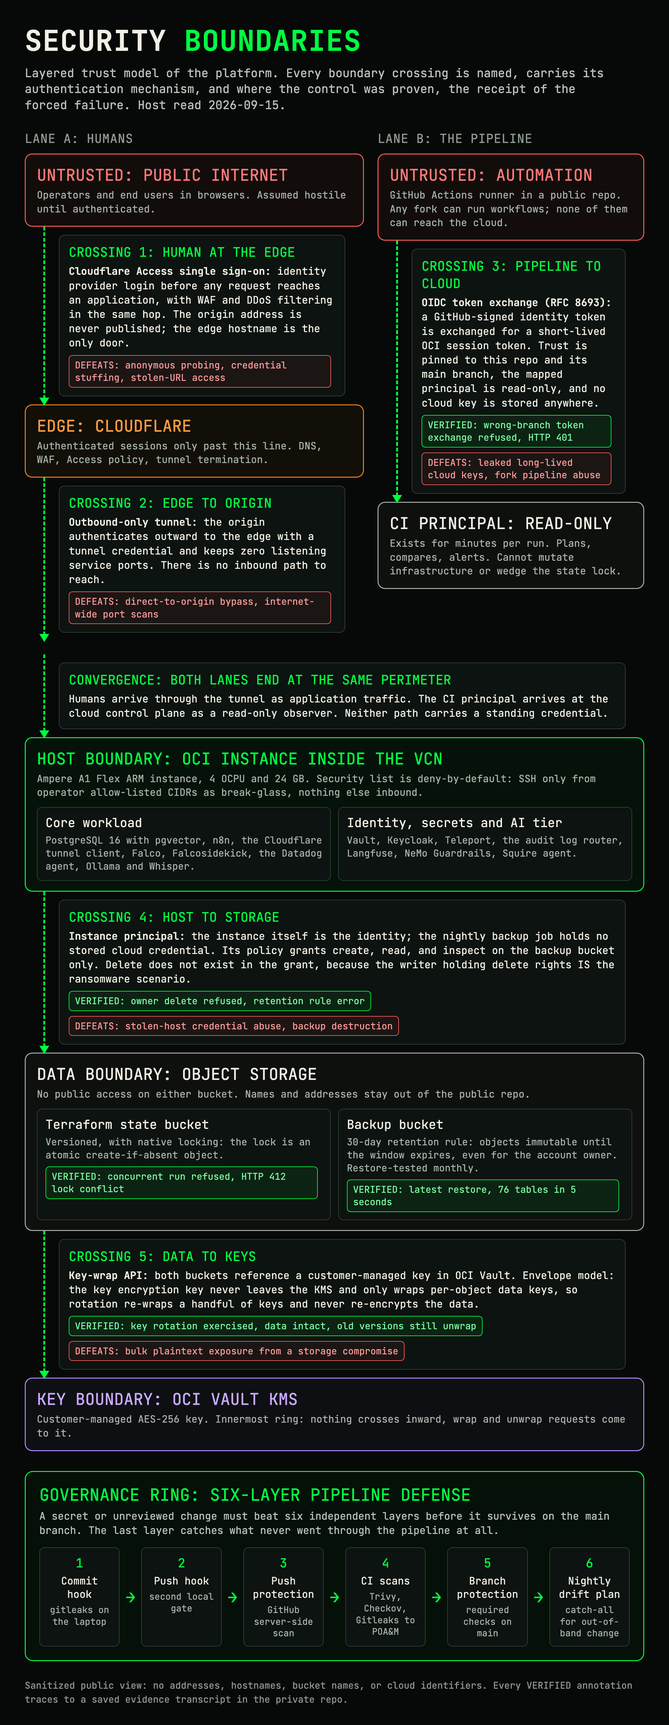
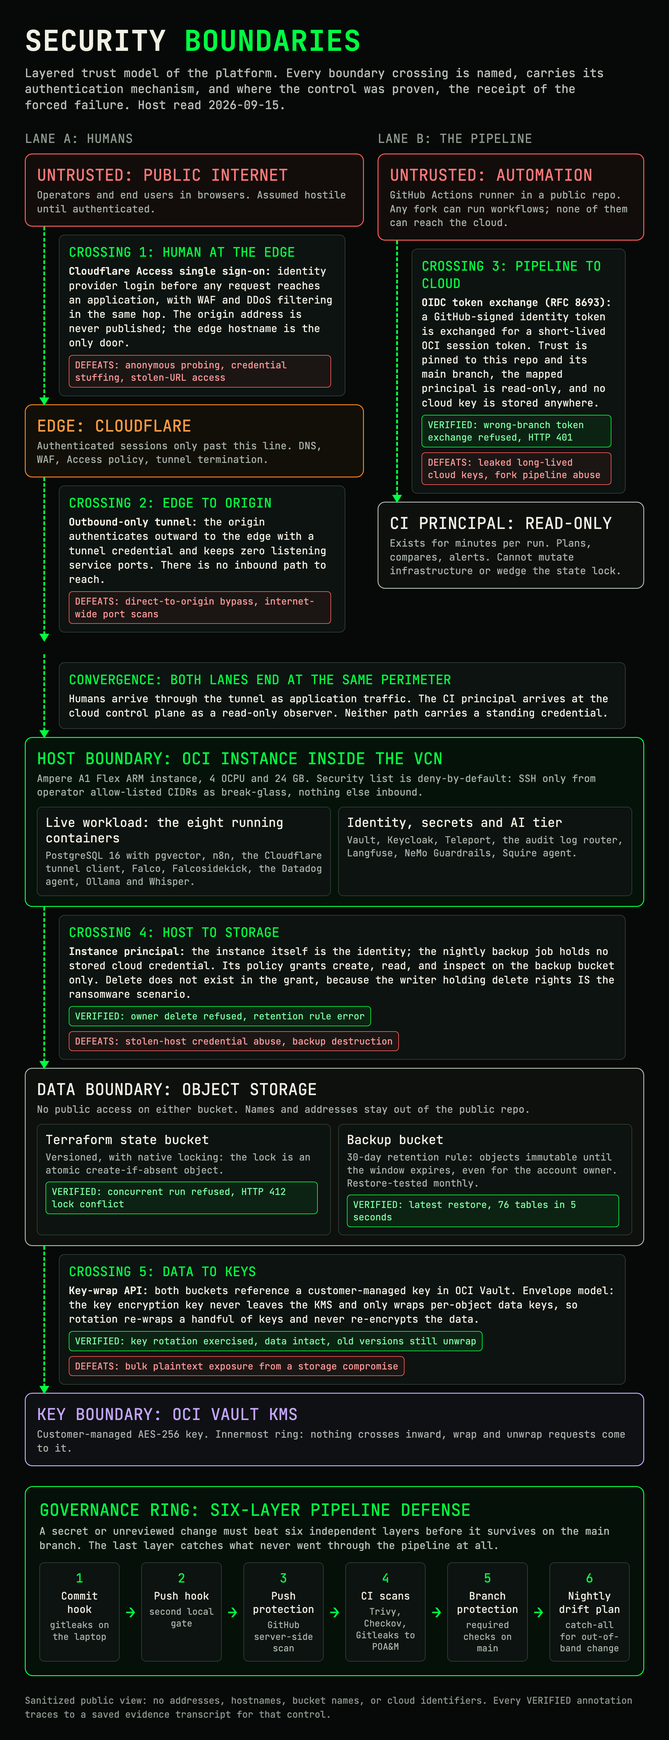
fix(24-01): allowlist rows fixed at the line, the nine residue keys, two anchors and the diagram boxes

diff --git a/docs/grc/diagrams/network_topology.html b/docs/grc/diagrams/network_topology.html
@@ -65,13 +65,13 @@
 
   .livebox { border:3px solid #00FF41; background:rgba(0,255,65,.06); border-radius:16px; padding:24px 28px; margin-top:24px; }
   .liveh { font-family:'JetBrains Mono','SF Mono',Menlo,monospace; font-size:36px; color:#00FF41; margin-bottom:16px; }
-  .pendbox { border:3px dashed #FFB020; background:rgba(255,176,32,.05); border-radius:16px; padding:24px 28px; margin-top:24px; }
+  .tierbox { border:3px solid #FFB020; background:rgba(255,176,32,.05); border-radius:16px; padding:24px 28px; margin-top:24px; }
   .pendh { font-family:'JetBrains Mono','SF Mono',Menlo,monospace; font-size:36px; color:#FFB020; margin-bottom:16px; }
   .ctrs { display:flex; flex-wrap:wrap; gap:14px; }
   .ctr { font-family:'JetBrains Mono','SF Mono',Menlo,monospace; font-size:33px; background:#0d1310;
          border:2px solid #33413a; border-radius:12px; padding:12px 20px; color:#f2efe4; }
-  .pendbox .ctr { border-color:#5a4b26; color:#e8cf9a; }
-  .pendnote { font-size:30px; color:#c9a45c; margin-top:18px; line-height:1.4; }
+  .tierbox .ctr { border-color:#5a4b26; color:#e8cf9a; }
+  .tiernote { font-size:30px; color:#c9a45c; margin-top:18px; line-height:1.4; }
 
   .footer { margin-top:54px; font-family:'JetBrains Mono','SF Mono',Menlo,monospace; font-size:30px; color:#8f9a91; line-height:1.5; }
 </style>
@@ -191,14 +191,14 @@
           </div>
         </div>
 
-        <div class="pendbox">
+        <div class="tierbox">
           <div class="pendh">IDENTITY, SECRETS AND AI TIER</div>
           <div class="ctrs">
             <span class="ctr">Vault</span><span class="ctr">Keycloak</span><span class="ctr">Teleport</span>
             <span class="ctr">Audit log router</span><span class="ctr">Langfuse</span>
             <span class="ctr">NeMo Guardrails</span><span class="ctr">Squire agent</span>
           </div>
-          <div class="pendnote">Defined in Docker Compose. Registry images pinned to their arm64 index digests; three are built from this repository.</div>
+          <div class="tiernote">Defined in Docker Compose. Registry images pinned to their arm64 index digests; three are built from this repository.</div>
         </div>
       </div>
     </div>
@@ -229,4 +229,4 @@
   </div>
 </div>
 
-<div class="footer">Sanitized public view: no addresses, hostnames, bucket names, or cloud identifiers. Every VERIFIED annotation traces to a saved evidence transcript in the private repo.</div>
+<div class="footer">Sanitized public view: no addresses, hostnames, bucket names, or cloud identifiers. Every VERIFIED annotation traces to a saved evidence transcript for that control.</div>

diff --git a/docs/grc/diagrams/stack_overview_hero.html b/docs/grc/diagrams/stack_overview_hero.html
@@ -25,16 +25,16 @@
   .c-edge  { border-color:#F6821F; } .c-edge .ctitle { color:#FF9C42; }
   .c-comp  { border-color:#00FF41; } .c-comp .ctitle { color:#00FF41; }
   .c-data  { border-color:#a8b3aa; } .c-data .ctitle { color:#f2efe4; }
-  .c-ci    { border-color:#B48CFF; } .c-ci .ctitle { color:#C9ABFF; }
+  .c-ci    { border-color:#c4a6ff; } .c-ci .ctitle { color:#c4a6ff; }
 
   .item { font-size:36px; color:#f2efe4; line-height:1.4; padding:12px 0 12px 40px; position:relative; }
   .item::before { content:""; position:absolute; left:0; top:30px; width:16px; height:16px; border-radius:4px; background:#00FF41; }
   .c-edge .item::before { background:#F6821F; }
   .c-data .item::before { background:#a8b3aa; }
-  .c-ci   .item::before { background:#B48CFF; }
+  .c-ci   .item::before { background:#c4a6ff; }
   .item b { color:#f2efe4; font-weight:600; }
 
-  .tierbox { margin-top:40px; border:3px dashed #FFB020; border-radius:26px; padding:38px 42px; background:rgba(255,176,32,.04); }
+  .tierbox { margin-top:40px; border:3px solid #FFB020; border-radius:26px; padding:38px 42px; background:rgba(255,176,32,.04); }
   .ptitle { font-family:'JetBrains Mono','SF Mono',Menlo,monospace; font-size:56px; color:#FFB020; }
   .psub { font-size:36px; color:#c9a45c; margin-top:12px; line-height:1.4; }
   .ptags { display:flex; flex-wrap:wrap; gap:16px; margin-top:26px; }
@@ -73,7 +73,7 @@
   <div class="card c-comp">
     <div class="chead"><div class="ctitle">COMPUTE</div></div>
     <div class="item"><b>Ampere A1 ARM instance</b> in a deny-by-default VCN, fully Terraform-managed</div>
-    <div class="item"><b>Live containers:</b> PostgreSQL 16 + pgvector, n8n, tunnel client, Falco, Falcosidekick, Datadog agent, Ollama, Whisper</div>
+    <div class="item"><b>Live, the eight running containers:</b> PostgreSQL 16 + pgvector, n8n, tunnel client, Falco, Falcosidekick, Datadog agent, Ollama, Whisper</div>
     <div class="item"><b>SSH:</b> break-glass only, from allow-listed operator CIDRs</div>
   </div>
 

diff --git a/docs/grc/diagrams/security_boundaries.html b/docs/grc/diagrams/security_boundaries.html
@@ -27,8 +27,8 @@
   .b-blue  .blabel { color:#f2efe4; }
   .b-green { border:3px solid #00FF41; background:rgba(0,255,65,.04); }
   .b-green .blabel { color:#00FF41; }
-  .b-purple{ border:3px solid #B48CFF; background:rgba(180,140,255,.05); }
-  .b-purple .blabel { color:#C9ABFF; }
+  .b-purple{ border:3px solid #c4a6ff; background:rgba(196,166,255,.05); }
+  .b-purple .blabel { color:#c4a6ff; }
 
   .cross { margin:0 60px; border-left:6px dashed #00FF41; padding:26px 0 26px 44px; position:relative; }
   .cross::after { content:""; position:absolute; left:-19px; bottom:-4px;
@@ -129,7 +129,7 @@
   <div class="bsub">Ampere A1 Flex ARM instance, 4 OCPU and 24 GB. Security list is deny-by-default: SSH only from operator allow-listed CIDRs as break-glass, nothing else inbound.</div>
   <div class="inner">
     <div class="icard">
-      <div class="ilabel">Core workload</div>
+      <div class="ilabel">Live workload: the eight running containers</div>
       <div class="isub">PostgreSQL 16 with pgvector, n8n, the Cloudflare tunnel client, Falco, Falcosidekick, the Datadog agent, Ollama and Whisper.</div>
     </div>
     <div class="icard">
@@ -198,4 +198,4 @@
   </div>
 </div>
 
-<div class="footer">Sanitized public view: no addresses, hostnames, bucket names, or cloud identifiers. Every VERIFIED annotation traces to a saved evidence transcript in the private repo.</div>
+<div class="footer">Sanitized public view: no addresses, hostnames, bucket names, or cloud identifiers. Every VERIFIED annotation traces to a saved evidence transcript for that control.</div>

diff --git a/docs/grc/SQUIRE_THREAT_MODEL.md b/docs/grc/SQUIRE_THREAT_MODEL.md
@@ -178,7 +178,7 @@ ATLAS ID references per the AML.T code set as of 2026-04. Each tactic below has 
 
 | Tactic ID | Name | Primary control | Supporting control | Residual |
 |-----------|------|-----------------|-------------------|----------|
-| AML.T0051 | Prompt Injection | NeMo input rail (presidio + planned PolicyAI) | Pre-graph scanner + critique-loop consistency + actions.yml rewrite | MEDIUM |
+| AML.T0051 | Prompt Injection | NeMo input rail (presidio, with PolicyAI in the rail design) | Pre-graph scanner + critique-loop consistency + actions.yml rewrite | MEDIUM |
 <!-- TODO(et): AML.T0041 is not a current MITRE ATLAS technique ID under that label. T0024 (Exfiltration via ML Inference API) likely covers the row below. Consolidate or remap to a real ATLAS technique. -->
 | AML.T0024 | Exfiltration via ML Inference API | Per-call cost ceiling $0.75, daily ceiling $10 | Token auth + 60-day rotation | LOW |
 | AML.T0029 | Denial of ML Service | Cost ceiling + iteration cap (3) + invocation timeout (30s) | Cloudflare rate limit + Redis dedup | LOW |
@@ -193,10 +193,10 @@ ATLAS ID references per the AML.T code set as of 2026-04. Each tactic below has 
 
 **Mitigating controls:**
 
-- NeMo input rail with presidio + planned PolicyAI layer. Config: `svc-nemo-config/config.yml`. Plan reference: phase 17 plan 17-10, the NeMo sidecar, which lives in the private planning tree and is not published with this repository. See [GUARDRAILS_CONFIGURATION.md](GUARDRAILS_CONFIGURATION.md) for rail topology.
+- NeMo input rail with presidio, and a PolicyAI layer beside it in the rail design. Config: `svc-nemo-config/config.yml`. See [GUARDRAILS_CONFIGURATION.md](GUARDRAILS_CONFIGURATION.md) for rail topology.
 - Pre-graph PII scanner (`builds/squire/src/squire/pre_graph_pii.py`) runs before any LLM call. Does not address non-PII injection, but narrows the exposure surface for exfil variants.
 - Critique-loop consistency override: the critique node re-evaluates severity and containment recommendation against the classifier output; a severity flip from `CRITICAL` on raw alert to `LOW` in draft triggers an override back to classifier severity ([REDTEAM_RESULTS.md](REDTEAM_RESULTS.md) case R-03).
-- actions.yml allow-list: draft-node output passes through a filter that rewrites destructive verbs ("stop", "rm", "delete", "shutdown") to `recommend:` phrasing. Plan reference: phase 17 plan 17-09, the allow-list, which lives in the private planning tree and is not published with this repository.
+- actions.yml allow-list: draft-node output passes through a filter that rewrites destructive verbs ("stop", "rm", "delete", "shutdown") to `recommend:` phrasing.
 
 **Residual risk: MEDIUM.** Novel injection patterns can bypass presidio-based rails, which are PII-detector-centric and not behavioral. The critique consistency check and the actions.yml rewrite are the defense-in-depth against bypass. Red-team cycle 2 (plan 17-11) will exercise attack tree leaf A.2 (poisoned ir_chunk) and A.3 (Tavily directive injection) to quantify this residual further.
 
@@ -213,7 +213,7 @@ ATLAS ID references per the AML.T code set as of 2026-04. Each tactic below has 
 **Mitigating controls:**
 
 - Per-call cost ceiling of $0.75 at the graph runner. Exceeds the average real-alert invocation cost (typically $0.12 to $0.38 per case) by a safety margin while still capping a runaway extraction loop at a single call.
-- Daily cost ceiling of $10 enforced by Redis counter keyed on UTC day; requests past the ceiling are rejected with `429 COST_CEILING_HIT` before any LLM call. Plan reference: phase 17 plan 17-08b, the cost caps, which lives in the private planning tree and is not published with this repository.
+- Daily cost ceiling of $10 enforced by Redis counter keyed on UTC day; requests past the ceiling are rejected with `429 COST_CEILING_HIT` before any LLM call.
 - Token auth on `/alert` with `x-squire-token` rotated every 60 days. Token stored in Doppler only.
 - Cloudflare edge rate limit of 100 req/min per IP on squire.example-ops.com.
 - Langfuse volumetrics dashboard alerts when `invocations_per_hour > 30` (typical operational baseline is <5).

diff --git a/docs/grc/HIPAA_EPHI_HANDLING.md b/docs/grc/HIPAA_EPHI_HANDLING.md
@@ -267,7 +267,7 @@ This is a known gap. The current compensating controls are:
 - Runtime detection via Falco watching for process injection and unexpected memory reads
 - Minimal data residency in memory; records are decrypted at the moment of use and dereferenced immediately
 
-Future enhancement: evaluate hardware enclave deployment (Intel TDX, AMD SEV-SNP) on a successor host class. This is tracked in the platform roadmap as a Phase 20+ item, not immediate.
+Hardware enclave deployment (Intel TDX, AMD SEV-SNP) needs a successor host class, so the control is held and no part of the ingest path depends on it.
 
 ---
 
@@ -277,7 +277,7 @@ Future enhancement: evaluate hardware enclave deployment (Intel TDX, AMD SEV-SNP
 
 ePHI access is gated by a single role: ephi-operator. This role is distinct from the existing admin, operator, and auditor roles. The separation is deliberate: an admin can change platform configuration but cannot read ePHI without explicitly assuming the ephi-operator role through a JIT request. An auditor can review audit records about ePHI access but cannot read ePHI itself.
 
-**Provisioning status:** Role design is defined. The role is not yet provisioned in the Keycloak realm import file. Provisioning is gated by the BAA signing event per Section 4.1 item 7.
+**Provisioning status:** The role design is held and the Keycloak realm import file carries no row for it. Provisioning is gated by the BAA signing event per Section 4.1 item 7.
 
 ### 8.2 Just-In-Time Access
 
@@ -535,8 +535,8 @@ Each BAA includes a clause requiring the subprocessor to notify the Organization
 | Encryption at rest (application field) | Not implemented | Vault Transit with per-tenant key | Requires schema change; tracked in gap section |
 | Encryption in transit (TLS 1.3 external) | Implemented (Cloudflare edge enforces) | No change | Verified via SSL Labs scan |
 | Encryption in transit (mTLS internal) | Partial (some hops mTLS, some plaintext on bridge network) | Full mTLS on all ePHI-carrying hops | Service-mesh proposal under review |
-| Confidential computing (in use) | Not implemented | Not required for initial ingest; future enhancement | Hardware enclave evaluation deferred to Phase 20+ |
-| RBAC (admin/operator/auditor) | Implemented | ephi-operator role added | Role design defined; not yet provisioned in Keycloak realm import |
+| Confidential computing (in use) | Not implemented | Not required for initial ingest | Hardware enclave evaluation needs a successor host class |
+| RBAC (admin/operator/auditor) | Implemented | ephi-operator role added | Role design held; the Keycloak realm import carries no row for it |
 | JIT access via Teleport | Implemented | ephi-operator integrated | JIT template needs the minimum-necessary justification field |
 | Session recording | Implemented | No change | Already mandatory for elevated sessions |
 | Audit logging (Squire AI events) | Implemented per AI_AUDIT_TRAIL_SPEC.md | Extended to ephi_audit table | Requires schema migration and ingest hook |

diff --git a/docs/grc/POLICY_DISASTER_RECOVERY.md b/docs/grc/POLICY_DISASTER_RECOVERY.md
@@ -24,7 +24,7 @@ This plan is a companion to GRC-BCP-001 (Business Continuity Plan) and focuses s
 
 This plan covers the recovery of:
 
-- The production VPS (`alpha-node`) and all 20 services (19 Compose-managed containers plus 1 standalone service)
+- The production VPS (`alpha-node`), all 19 Compose-managed service containers, and the standalone service beside them
 - PostgreSQL databases and persistent data volumes
 - Infrastructure-as-code state and definitions
 - CI/CD pipeline configurations
@@ -78,7 +78,7 @@ This plan covers the recovery of:
 
 **Description:** DigitalOcean's hosting region becomes unavailable due to infrastructure failure, network partition, or provider-side incident.
 
-**Impact:** All 20 services offline (19 Compose-managed + 1 standalone). No remote access via tunnel or direct SSH. Datadog may still have historical data.
+**Impact:** All 19 Compose-managed services offline. No remote access via tunnel or direct SSH. Datadog may still have historical data.
 
 **Detection:** Datadog alerts on host unreachable; Cloudflare health checks fail; manual verification via provider status page.
 
@@ -102,7 +102,7 @@ This plan covers the recovery of:
 
 **Description:** The VPS operating system becomes unbootable, the disk is corrupted, or a kernel panic renders the host non-functional. DigitalOcean infrastructure is operational but the specific instance is damaged.
 
-**Impact:** All 20 services offline (19 Compose-managed + 1 standalone). Data on local volumes may be lost or inaccessible.
+**Impact:** All 19 Compose-managed services offline. Data on local volumes may be lost or inaccessible.
 
 **Detection:** SSH connection refused or timeout; Datadog reports host down; DigitalOcean console shows instance in error state.
 
@@ -409,7 +409,7 @@ Step 10: Document rotation in change log
 | PostgreSQL backup restore | Monthly | Restore latest dump to temporary container | Data integrity verified; row counts match |
 | IaC plan validation | Monthly | IaC plan against production state | Zero unexpected changes |
 | Single container recovery | Quarterly | Destroy and recreate one Tier 2 service | Service operational within RTO |
-| Full stack rebuild (test instance) | Annually | Complete Playbook 6.1 on separate VPS | All 20 services pass validation checklist within 4 hours |
+| Full stack rebuild (test instance) | Annually | Complete Playbook 6.1 on separate VPS | All 19 services pass validation checklist within 4 hours |
 | Ransomware scenario tabletop | Annually | Walk through Scenario D with all roles | All steps executable; no missing procedures |
 | Backup integrity audit | Quarterly | Verify all backup items exist and are current | All items in Section 5.1 present and within retention window |
 

diff --git a/docs/grc/AI_RED_TEAM_PLAN.md b/docs/grc/AI_RED_TEAM_PLAN.md
@@ -965,7 +965,7 @@ Testing SHALL be immediately suspended if any of the following occur:
 |---------|-------------|-----------------|-------------------------|------------------|
 | Q1 2026 | 2026-03-12 (initial planned) | All 6 categories, full baseline | N/A (first assessment) | NOT EXECUTED on 2026-03-12. Actual first execution was 2026-04-23 (cycle 1) and 2026-04-24 (cycle 2) against svc-squire (AI-004). See `REDTEAM_RESULTS.md`. |
 | Q2 2026 | 2026-06-02 to 2026-06-06 (planned) | Categories 1, 2, 4 (highest risk) | Full re-test of Q1 failures | Window passed. Cycle 2 (2026-04-24) substitutes in part; a dedicated Q2 window run is not documented. <!-- TODO(et): confirm whether the planned Q2 2026 window executed; if cycle 2 stands in for Q2, state that explicitly here. --> |
-| Q3 2026 | 2026-09-01 to 2026-09-05 | Categories 3, 5, 6 plus regression | Re-test Q2 failures plus new controls | Pending. |
+| Q3 2026 | 2026-09-01 to 2026-09-05 | Categories 3, 5, 6 plus regression | Re-test Q2 failures plus new controls | Not run in the Q3 window. |
 | Q4 2026 | 2026-12-01 to 2026-12-05 | All 6 categories, annual comprehensive | Full regression suite | Pending. |
 
 ### 5.2 Test Rotation Matrix
@@ -1155,7 +1155,7 @@ Each quarterly testing cycle produces a summary report containing:
 | ART-EA-002 | ATC-07 | E-02 | 1.1.3 | LLM08 | - | Planned (no evidence) <!-- TODO(et): verify execution status --> |
 | ART-EA-003 | ATC-06, ATC-07 | E-04 | 4.x | LLM08 | AML.T0040 | Adjacent execution via AI-004 cycle 2 case 18 (action-verb smuggling, INFRA_ERROR). <!-- TODO(et): re-fire to convert INFRA_ERROR to a real result. --> |
 | ART-EA-004 | ATC-07 | E-02 | 1.1.3 | LLM08 | - | Planned (no evidence) <!-- TODO(et): verify execution status --> |
-| ART-SC-001 | ATC-04 | T-02 | 2.1.x | LLM03 | AML.T0018 | Planned (no evidence). Supply Chain family is currently unaudited. <!-- TODO(et): verify execution status --> |
+| ART-SC-001 | ATC-04 | T-02 | 2.1.x | LLM03 | AML.T0018 | Planned (no evidence). Supply Chain family is currently unaudited. |
 | ART-SC-002 | ATC-04 | T-02 | 2.1.x | LLM03 | AML.T0018 | Out of scope today: model update test assumes svc-llm/Ollama, but the Squire fallback cannot reach svc-ollama because of net-ai isolation. <!-- TODO(et): retain or rewrite for net-core path. --> |
 | ART-SC-003 | ATC-04 | T-05 | 2.3.1 | LLM03 | AML.T0018 | Planned (no evidence) <!-- TODO(et): verify execution status --> |
 | ART-SC-004 | ATC-04 | T-02 | 2.2.1 | LLM03 | AML.T0018 | Planned (no evidence) <!-- TODO(et): verify execution status --> |

diff --git a/docs/runbook/image-rollback.md b/docs/runbook/image-rollback.md
@@ -184,7 +184,7 @@ ssh cd-oci 'sudo apt-get remove -y docker-buildx'
 
 Removing the package removes the subcommand, and `docker build` returns to the legacy builder, which still works in Docker 29.1.3. buildx is a client plugin, so neither installing nor removing it changes anything about the running stack. This was checked before it was written down: `apt-get -s remove docker-buildx` reports one package removed and nothing else touched.
 
-**The alternative, and why it waits.** Publishing these images to the GitHub Container Registry with `docker/build-push-action` on the arm64 hosted runners is the better long run answer, and the ground is already prepared: the repository is public, the workflows SHA pin their actions, and `security.yml` already installs Cosign. It waits for Phase 24 because `scripts/verify_image_signatures.py` fails closed on any `image:` reference that has no entry in `.github/image-signers.json`. The moment a compose line points at a registry, that gate breaks the pull request until the images are keyless signed, which is requirement RB-04. Reversal for that path, if it is taken anyway: revert the workflow, revert the `image:` lines back to local tags, revert the signers entry, and delete the package from the GitHub packages interface.
+**The registry path, and why the build is local.** Publishing these images to the GitHub Container Registry with `docker/build-push-action` on the arm64 hosted runners is the better long run answer, and the ground is prepared: the repository is public, the workflows SHA pin their actions, and `security.yml` already installs Cosign. The build stays local because `scripts/verify_image_signatures.py` fails closed on any `image:` reference that has no entry in `.github/image-signers.json`: the moment a compose line points at a registry, that gate holds the pull request open unless the images carry a keyless signature, which is requirement RB-04. Reversal for the registry path: revert the workflow, revert the `image:` lines back to local tags, revert the signers entry, and delete the package from the GitHub packages interface.
 
 **Two Arm pins had to move before any of this could build.** Both were measured on the host on 2026-09-09.
 

diff --git a/docs/grc/SQUIRE_SSP.md b/docs/grc/SQUIRE_SSP.md
@@ -300,7 +300,7 @@ This section covers only controls that are Squire-specific. Inherited controls (
 |---------|--------|----------------|----------|
 | AU-2 | Implemented | Audit events: (1) every `/alert` call emits a Langfuse trace with cost, latency, and rail outcomes; (2) every completed investigation, its evidence, and its citations are rows in `ir_investigations`, `ir_evidence`, and `ir_citations`, and a replay is a new investigation row with source `replay`; (3) a pre-graph block returns a structured refusal with a reason code and is traced, not stored in a dedicated table. | `builds/squire/src/squire/persist.py`; `builds/squire/src/squire/telemetry.py` |
 | AU-3 | Implemented | Audit records include: timestamp, trace_id, node_name, model_id, input_hash, output_hash, rail_name, reason_code, cost_usd, latency_ms. | Langfuse schema + `ir_*` DDL in migrations/002 |
-| AU-6 | Implemented | Daily automated review: a cron job queries Langfuse for traces with `rail_triggered=true` and posts a summary to the operations Telegram bot. Weekly human review of red-team regression runs. | No script by that name exists in the repository as of 2026-09-06; the rail-trigger review is a manual Langfuse query until the daily job is written |
+| AU-6 | Implemented | Daily automated review: a cron job queries Langfuse for traces with `rail_triggered=true` and posts a summary to the operations Telegram bot. Weekly human review of red-team regression runs. | No script by that name exists in the repository as of 2026-09-06; the rail-trigger review is a manual query of the trace store |
 | AU-9 | Implemented | Langfuse writes are append-only from the worker's perspective. The Postgres table holding traces has REVOKE UPDATE, DELETE on the service role. Offsite backup via nightly `pg_dump` to DO Spaces (14-day retention). | `svc-db` role `langfuse_rw` grants INSERT, SELECT only |
 | AU-12 | Partially Implemented | Every graph node is instrumented with `@observe()` from `langfuse.decorators`. No test enumerates the nodes to enforce the decorator yet; a trace-coverage test is an open item. | `builds/squire/src/squire/nodes/draft.py` and `critique.py` carry the observe decorators |
 

diff --git a/terraform/cd-oci-infrastructure/README.md b/terraform/cd-oci-infrastructure/README.md
@@ -94,19 +94,19 @@ user in a read-only group. The workflow file documents the two non-obvious
 parts (Oracle's `urn:oci:token-type:oci-upst` token type and the SDK's
 fingerprint requirement for session auth).
 
-## Remaining work (post-migration, in priority order)
+## What sits outside this module
 
-1. **Terraform state -> Cloudflare R2**: state is already remote (versioned OCI
-   bucket with locking); moving it off the compute vendor waits on a one-time
-   R2 enable in the CF dashboard, then `terraform init -migrate-state`.
-2. **Re-import n8n workflows**: 14 JSON files in `COREDIRECTIVE_ENGINE/`; the
-   DB is fresh (old data died with the droplet). Credentials need reconnecting.
-3. **Full stack parity**: bring up the remaining services on ARM: strip/re-pin
-   digests for arm64, rebuild local images (nemo/squire/fluentd), regenerate
-   Teleport certs + Keycloak realm + Vault data (lost with the droplet), wire
-   falcosidekick -> Splunk.
-4. **Adopt the Cloudflare layer into Terraform**: `import`, not apply, then
-   parameterize and publish the module.
+1. **Terraform state**: state is already remote, in a versioned OCI bucket with
+   native locking. Moving it to Cloudflare R2 is a bucket create plus
+   `terraform init -migrate-state`; the reasoning sits in `terraform.tf`.
+2. **n8n workflows**: the 14 JSON exports in `COREDIRECTIVE_ENGINE/` are the
+   source of truth, and the instance carries all 14 with credentials bound by name.
+3. **Stack parity on Arm**: the compose design carries 19 services and the host
+   runs 8 of them on arm64 digests. The rest carry amd64 digests or local
+   images, so each one is built and re-pinned for aarch64, with Teleport certs,
+   the Keycloak realm and Vault data generated on first bring-up.
+4. **The Cloudflare layer in Terraform**: the edge is adopted with `import`, so
+   no apply creates it; it is then parameterized and published as a module.
 
-Full point-in-time record: `.private/INFRA_SNAPSHOT_2026-08-19.md` (gitignored)
-and the mirrored Google Drive doc.
+Account-specific values this module reads (bucket name, namespace, region) live
+in `backend.hcl`, which git never tracks.

diff --git a/docs/grc/OWASP_MCP_TOP10_AUDIT.md b/docs/grc/OWASP_MCP_TOP10_AUDIT.md
@@ -155,9 +155,9 @@ The 5 FastMCP tools in scope are `list_docs`, `read_doc`, `search_corpus`, `get_
 
 **Evidence**: `scripts/grc/grc_mcp_server.py:151` defines `MAX_RESPONSE_BYTES = 100 * 1024` (100KB hard cap). The cap is enforced on every tool return: `list_docs` truncates the payload (lines 233 to 238), `read_doc` truncates via `_truncate_bytes()` (line 274), `search_corpus` accounts snippet bytes against `snippet_budget = MAX_RESPONSE_BYTES // 2` (line 292), `get_poam` truncates the raw row (line 359), `get_threat_model_entry` truncates the extracted section (line 402). Input arguments are validated by FastMCP type-hint enforcement plus the explicit regex guards `_POAM_ID_RE` and `_THREAT_ID_RE`. Every return goes through `sanitize()` to strip cross-context secret leaks.
 
-**Residual Risk**: Low. A single response under the byte cap could still over-share adjacent rows from the same markdown file (asking for one POAM ID returns the surrounding rows). Phase 21 will add query-intent scoping; until then, the 100KB cap plus per-field sanitize limits over-share blast radius.
+**Residual Risk**: Low. A single response under the byte cap could still over-share adjacent rows from the same markdown file (asking for one POAM ID returns the surrounding rows). The server applies no query-intent scoping, so the 100KB cap plus per-field sanitize is what limits the over-share blast radius.
 
-**Compensating Controls**: Not required (status is Mitigated). Phase 21 backlog item for query-intent scoping.
+**Compensating Controls**: Not required (status is Mitigated). Query-intent scoping sits on this audit's own backlog.
 
 ---
 

diff --git a/docs/architecture/STACK_OVERVIEW.md b/docs/architecture/STACK_OVERVIEW.md
@@ -6,7 +6,7 @@ Acronyms, once: OIDC (OpenID Connect), JWT (JSON Web Token), UPST (user principa
 
 The reasoning behind each control (options weighed, blast radius, verification method) lives in the [decision records](decisions/README.md).
 
-**Multi-cloud posture.** The running platform deliberately splits trust across vendors: OCI holds compute, storage, and keys; Cloudflare holds the edge (Access, WAF, DNS, tunnel); GitHub issues the pipeline's identity. This is the third cloud generation of the same design: generation one ran on AWS (its IaC is archived in `terraform/cd-aws-automation/` and `terraform/simple-ec2/`), generation two on DigitalOcean (`terraform/cd-do-infrastructure/`, archived), and each migration was survivable because the entire system is code. Terraform state sits in versioned, locked object storage under a customer-managed key, so the record of the infrastructure outlives the host it describes.
+**Multi-cloud posture.** The running platform deliberately splits trust across vendors: OCI holds compute, storage, and keys; Cloudflare holds the edge (Access, WAF, DNS, tunnel); GitHub issues the pipeline's identity. This is the third cloud generation of the same design: generation one ran on AWS (its IaC is archived in `terraform/cd-aws-automation/` and `terraform/simple-ec2/`), generation two on DigitalOcean (`terraform/cd-do-infrastructure/`, archived), and each migration was survivable because the entire system is code. Terraform state sits in versioned, locked object storage under a customer-managed key.
 
 ```mermaid
 %%{init: {'theme':'base', 'themeVariables': {
